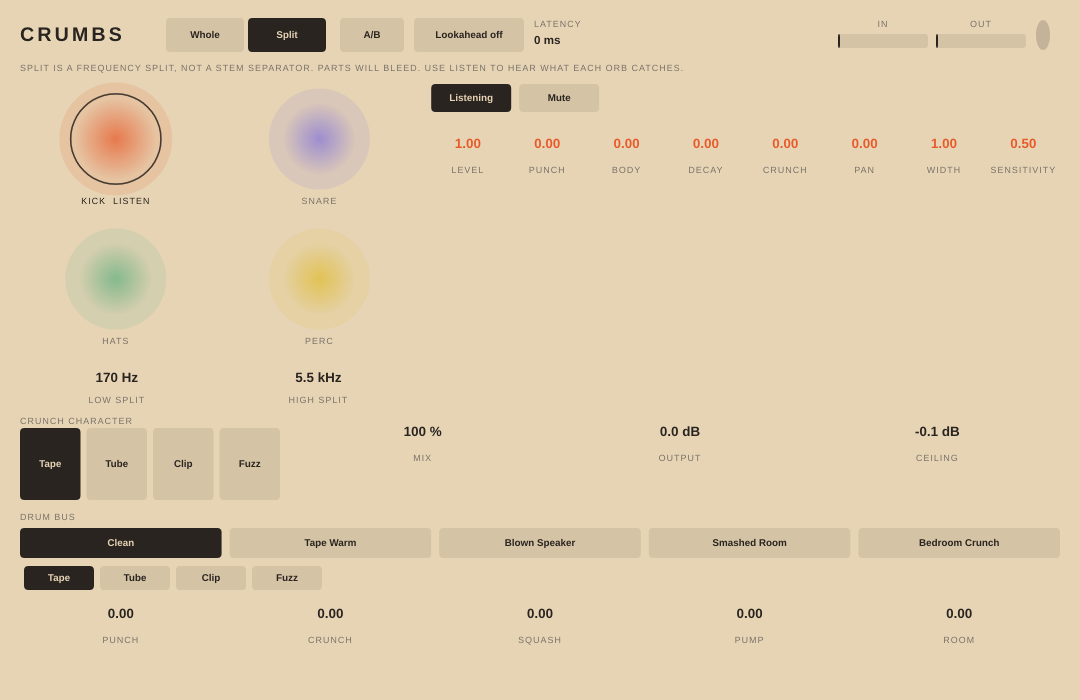
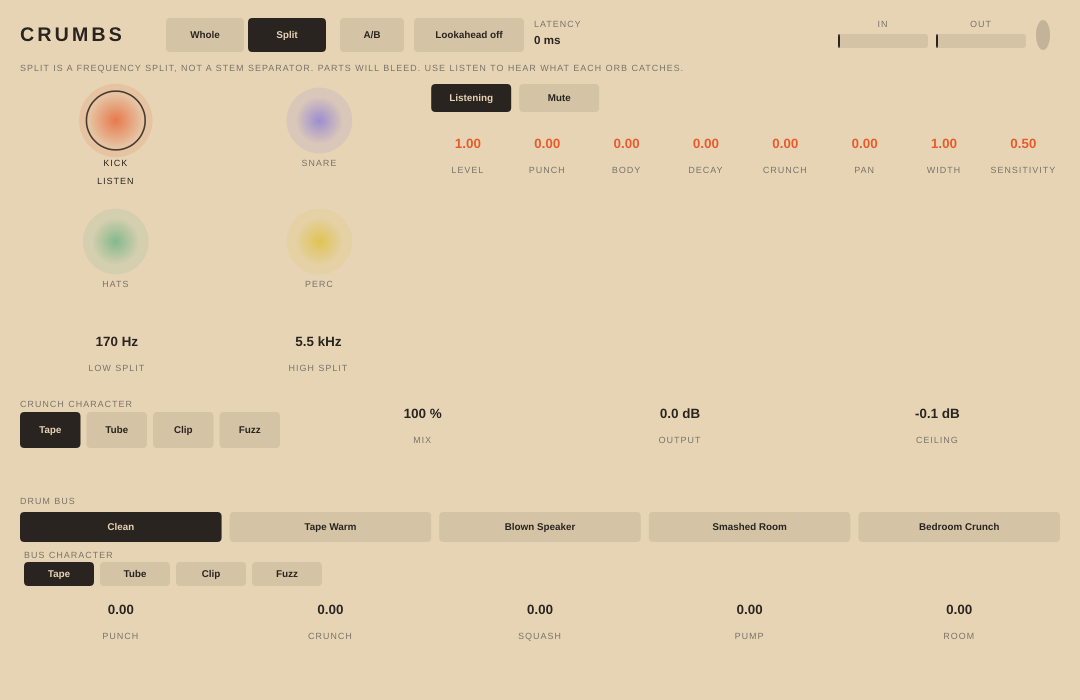
CRUMBS v2.0.1: match bus level, tighten Whole layout
Add a bus-stage RMS auto-gain so every bus preset sits within
about 1 dB of Clean. Pack Whole mode from the top, label the bus
character row, and give Listen and Mute their own line under each orb.

diff --git a/src/plugin/PluginEditor.cpp b/src/plugin/PluginEditor.cpp
@@ -81,11 +81,27 @@ void CrumbsEditor::layout() {
     b.removeFromTop(8);
     hintRow = b.removeFromTop(16);
     b.removeFromTop(8);
-    busRow = b.removeFromBottom(172);
-    b.removeFromBottom(10);
-    mixRow = b.removeFromBottom(86);
-    b.removeFromBottom(10);
-    workArea = b;
+    const bool splitMode = proc.value(G_MODE) >= 0.5f;
+    const float busH = 188.f;
+    const float mixH = 86.f;
+    if (splitMode) {
+        // Orbs use the leftover height; mix + bus stay on the bottom.
+        busRow = b.removeFromBottom(busH);
+        b.removeFromBottom(12);
+        mixRow = b.removeFromBottom(mixH);
+        b.removeFromBottom(16);
+        workArea = b;
+    } else {
+        // Pack Whole from the top so leftover space sits under the bus,
+        // not as an empty band between the knobs and the crunch row.
+        workArea = juce::Rectangle<float>(b.getX(), b.getY(), b.getWidth(), 30.f + 18.f + 88.f);
+        auto after = b;
+        after.removeFromTop(workArea.getHeight());
+        after.removeFromTop(24);
+        mixRow = after.removeFromTop(mixH);
+        after.removeFromTop(16);
+        busRow = after.removeFromTop(busH);
+    }
 
     auto t = topBar;
     auto title = t.removeFromLeft(130);
@@ -115,8 +131,8 @@ void CrumbsEditor::layout() {
         orbArea = w.removeFromLeft(juce::jmax(280.f, w.getWidth() * 0.38f));
         w.removeFromLeft(16);
         auto o = orbArea;
-        splitRow = o.removeFromBottom(44);
-        o.removeFromBottom(8);
+        splitRow = o.removeFromBottom(56);
+        o.removeFromBottom(10);
         float gap = 12.f;
         float ow = (o.getWidth() - gap) * 0.5f;
         float oh = (o.getHeight() - gap) * 0.5f;
@@ -184,12 +200,13 @@ void CrumbsEditor::layout() {
     auto ctypes = m.removeFromLeft(260);
     {
         juce::Rectangle<float> ct = ctypes;
-        ct.removeFromTop(14);
+        ct.removeFromTop(16); // "Crunch character" caption
+        auto row = ct.removeFromTop(36);
         float gw = 6.f;
-        float cw = (ct.getWidth() - gw * 3) / 4;
+        float cw = (row.getWidth() - gw * 3) / 4;
         for (int i = 0; i < 4; ++i) {
-            crunchTypes.push_back(ct.removeFromLeft(cw));
-            if (i < 3) ct.removeFromLeft(gw);
+            crunchTypes.push_back(row.removeFromLeft(cw));
+            if (i < 3) row.removeFromLeft(gw);
         }
     }
     m.removeFromLeft(20);
@@ -199,9 +216,9 @@ void CrumbsEditor::layout() {
     outBox = m.removeFromLeft(mw); m.removeFromLeft(gw);
     ceilBox = m;
 
-    // bus row — header sits inside the row so it cannot overlap crunch chips
+    // bus row — captions sit inside the row so they cannot overlap chips
     auto br = busRow;
-    br.removeFromTop(16); // room for the "Drum bus" caption drawn in paint
+    br.removeFromTop(16); // "Drum bus"
     br.removeFromTop(2);
     auto chips = br.removeFromTop(30);
     busChips.clear();
@@ -212,7 +229,8 @@ void CrumbsEditor::layout() {
         busChips.push_back(chips.removeFromLeft(cw));
         if (i + 1 < nb) chips.removeFromLeft(cg);
     }
-    br.removeFromTop(8);
+    br.removeFromTop(6);
+    br.removeFromTop(14); // "Bus character" caption drawn in paint
     auto types = br.removeFromTop(24);
     busCrunchTypes.clear();
     types.removeFromLeft(4);
@@ -285,12 +303,16 @@ void CrumbsEditor::paint(juce::Graphics& g) {
             bool mutedP = proc.value(pp(i, P_MUTE)) >= 0.5f;
             bool lis = proc.value(pp(i, P_LISTEN)) >= 0.5f;
             auto cell = orbs[(size_t)i];
-            auto lab = cell.removeFromBottom(18);
+            auto lab = cell.removeFromBottom(36);
             drawOrb(g, cell, partCol(i), mutedP ? 0.22f : (on ? 0.70f : 0.48f), on);
-            juce::String tag = names[i];
-            if (lis) tag += "  listen";
-            if (mutedP) tag += "  mute";
-            tiny(g, lab, tag, on ? ink() : muted());
+            auto nameR = lab.removeFromTop(16);
+            tiny(g, nameR, names[i], on ? ink() : muted());
+            if (lis || mutedP) {
+                juce::String flag;
+                if (lis) flag = "Listen";
+                if (mutedP) flag = flag.isEmpty() ? "Mute" : flag + "  +  mute";
+                tiny(g, lab, flag, on ? ink() : muted());
+            }
         }
         knob(g, lowSplitBox, "Low split", fmtHz(proc.value(S_LOW)), ink());
         knob(g, highSplitBox, "High split", fmtHz(proc.value(S_HIGH)), ink());
@@ -320,7 +342,7 @@ void CrumbsEditor::paint(juce::Graphics& g) {
     }
 
     tiny(g, juce::Rectangle<float>(crunchTypes.empty() ? 0 : crunchTypes[0].getX(),
-                                   mixRow.getY(), 200, 14), "Crunch character", muted(), juce::Justification::centredLeft);
+                                   mixRow.getY(), 200, 16), "Crunch character", muted(), juce::Justification::centredLeft);
     const char* cts[] = {"Tape","Tube","Clip","Fuzz"};
     int ct = (int)std::lround(proc.value(W_CRTYPE));
     for (int i = 0; i < (int)crunchTypes.size(); ++i)
@@ -335,6 +357,12 @@ void CrumbsEditor::paint(juce::Graphics& g) {
     int bp = (int)std::lround(proc.value(B_BUS));
     for (int i = 0; i < (int)busChips.size(); ++i)
         chip(g, busChips[(size_t)i], busPresetName(i), i == bp);
+    if (!busCrunchTypes.empty()) {
+        tiny(g, juce::Rectangle<float>(busCrunchTypes[0].getX(),
+                                       busCrunchTypes[0].getY() - 14,
+                                       200, 14),
+             "Bus character", muted(), juce::Justification::centredLeft);
+    }
     int bct = (int)std::lround(proc.value(B_CRTYPE));
     for (int i = 0; i < (int)busCrunchTypes.size(); ++i)
         chip(g, busCrunchTypes[(size_t)i], cts[i], i == bct);

diff --git a/src/engine/Engine.h b/src/engine/Engine.h
@@ -196,6 +196,7 @@ struct Engine {
     CrunchOS wholeCrunch, busCrunch, partCrunch[kParts];
     Room wholeRoom, busRoom;
     Squash squash;
+    RmsAgc busAgc;
     PeakFollower pumpFol;
     OnePole pumpLpL, pumpLpR;
     Ceiling ceil0;
@@ -218,6 +219,7 @@ struct Engine {
         auto prepShapers = [&]() {
             wholePunch.prepare(sr); busPunch.prepare(sr);
             glue.prepare(sr); squash.prepare(sr);
+            busAgc.setMs(40.f, 90.f, sr);
             pumpFol.setMs(1.f, 180.f, sr);
             pumpLpL.setHz(150.f, sr); pumpLpR.setHz(150.f, sr);
             wholeRoom.prepare(sr); busRoom.prepare(sr);
@@ -241,6 +243,7 @@ struct Engine {
 
     void reset() {
         wholePunch.reset(); busPunch.reset(); glue.reset(); squash.reset();
+        busAgc.reset();
         wholeBodyL.reset(); wholeBodyR.reset();
         wholeToneL.reset(); wholeToneR.reset();
         snapL.reset(); snapR.reset();
@@ -428,6 +431,7 @@ struct Engine {
 
     void processBus(float& l, float& r) {
         if (p.busIsClean()) return;
+        float dL = l, dR = r;
         if (p.bPunch > 1e-5f) busPunch.tickStereo(l, r, p.bPunch, 0);
         if (p.bCrunch > 1e-5f) {
             float ol, or_;
@@ -442,6 +446,9 @@ struct Engine {
             l *= g; r *= g;
         }
         if (p.bRoom > 1e-5f) { float ol, or_; busRoom.tick(l, r, p.bRoom, ol, or_); l = ol; r = or_; }
+        // Match the whole bus stage to the dry bus input so a preset is a colour, not a level jump.
+        float ag = busAgc.tick(0.5f * (dL + dR), 0.5f * (l + r));
+        l *= ag; r *= ag;
     }
 };
 

diff --git a/tests/plugin_tests.cpp b/tests/plugin_tests.cpp
@@ -259,16 +259,24 @@ int main(int, char**) {
       CHECKM(r.identicalToInput() == (int)r.inL.size(), "return to clean identical %d/%d", r.identicalToInput(), (int)r.inL.size());
     }
 
-    { std::puts("- bus presets differ from Clean and stay under the ceiling");
+    { std::puts("- bus presets differ from Clean, stay under the ceiling, and sit within ±1 dB RMS");
+      auto rmsOf = [](const std::vector<float>& x) {
+          double e = 0; for (float v : x) e += (double)v * v;
+          return x.empty() ? 0.0 : std::sqrt(e / (double)x.size());
+      };
       Rig r; r.fillKit(1.0);
       r.run(r.inL, r.inR);
       auto clean = r.L;
+      double rClean = rmsOf(clean);
       for (int i = 1; i <= 4; ++i) {
           r.p.applyBusPreset(i);
           r.run(r.inL, r.inR);
           CHECK(r.finite() && r.peak() > 0.02f && r.peak() <= dbToGain(-0.1f) + 1e-5f);
           int same = 0; for (size_t k = 0; k < r.L.size(); ++k) if (r.L[k] == clean[k]) ++same;
           CHECKM(same < (int)r.L.size() / 2, "preset %d too close to clean", i);
+          double db = 20 * std::log10(std::max(rmsOf(r.L), 1e-8) / std::max(rClean, 1e-8));
+          CHECKM(std::fabs(db) <= 1.1, "plugin preset %s RMS %+0.2f dB vs clean", busPresetName(i), db);
+          std::printf("    bus %-16s  rms %+0.2f dB vs clean\n", busPresetName(i), db);
       }
       r.p.applyBusPreset(0);
       r.run(r.inL, r.inR);

diff --git a/src/engine/Dsp.h b/src/engine/Dsp.h
@@ -97,6 +97,27 @@ struct Agc {
     void reset() { ein = eout = 0; g = 1; }
 };
 
+// Program-level RMS match: slow enough to leave punch and pump alone,
+// quick enough that a preset's overall loudness sits next to the dry signal.
+struct RmsAgc {
+    float ein = 0, eout = 0, g = 1, coef = 0.01f, smooth = 0.01f;
+    void setMs(float envMs, float smoothMs, double sr) {
+        coef = 1.f - std::exp(-1.f / std::max(1.f, envMs * 0.001f * float(sr)));
+        smooth = 1.f - std::exp(-1.f / std::max(1.f, smoothMs * 0.001f * float(sr)));
+    }
+    float tick(float dry, float wet) {
+        ein  = flush(ein  + coef * (dry * dry - ein));
+        eout = flush(eout + coef * (wet * wet - eout));
+        float t = (eout > 1e-12f) ? std::sqrt(ein / eout) : 1.f;
+        t = clampf(t, 0.25f, 4.f);
+        float a = smooth;
+        if (std::fabs(t - g) > 0.25f) a = std::min(1.f, smooth * 6.f);
+        g = flush(g + a * (t - g));
+        return g;
+    }
+    void reset() { ein = eout = 0; g = 1; }
+};
+
 // RBJ biquad
 struct Biquad {
     float b0 = 1, b1 = 0, b2 = 0, a1 = 0, a2 = 0, z1 = 0, z2 = 0;

diff --git a/tests/test_engine.cpp b/tests/test_engine.cpp
@@ -231,10 +231,10 @@ static void testBusPresetsAndAgc() {
         CHECK(tu::peak(b.L) <= dbToGain(-0.1f) + 1e-5f);
         // clearly different from clean
         CHECK(tu::rmsDiff(b.L, dry) > 1e-4);
-        // not "just several dB louder" — compensated
+        // A preset is a colour, not a level jump: within about ±1 dB RMS of Clean.
         double r = tu::rms(b.L);
         double db = 20 * std::log10(std::max(r, 1e-8) / std::max(rClean, 1e-8));
-        CHECKM(db < 6.0, "preset %s RMS jump %+0.2f dB", busPresetName(i), db);
+        CHECKM(std::fabs(db) <= 1.1, "preset %s RMS %+0.2f dB vs clean (want ±1 dB)", busPresetName(i), db);
         std::printf("    bus %-16s  rms %+0.2f dB vs clean\n", busPresetName(i), db);
         // back to clean is exact
         p.applyBusPreset(BUS_CLEAN);

diff --git a/PLAN.md b/PLAN.md
@@ -1,6 +1,6 @@
 # CRUMBS v2 — a drum mixer insert
 
-Status: **v2.0.** Stereo audio effect (not an instrument). macOS universal VST3 + AU. Public repo [koobacorp/crumbs](https://github.com/koobacorp/crumbs).
+Status: **v2.0.1.** Stereo audio effect (not an instrument). macOS universal VST3 + AU. Public repo [koobacorp/crumbs](https://github.com/koobacorp/crumbs).
 
 Put CRUMBS on an FL mixer track. It processes the drums already running through that track in real time. Two modes: **Whole** (default) shapes the kit as one sound; **Split** is a live band split into Kick, Snare, Hats and Perc. The drum bus starts on **Clean** (a bit-exact bypass). No loop loading, no rearrange, no rebuild, no MIDI, no ML, no paid compute.
 

diff --git a/README.md b/README.md
@@ -9,7 +9,7 @@ Two modes, always your choice:
 
 The drum bus starts on **Clean**, which is a true bypass. Tape Warm, Blown Speaker, Smashed Room and Bedroom Crunch are punchy, saturated indie-drum colours. A/B compares the processed sound to the dry input.
 
-v2.0 is a macOS universal VST3 and AU. Nothing here is proven on real drums in FL until you try it, and it is not installed on your Mac until you ask.
+v2.0.1 is a macOS universal VST3 and AU. Nothing here is proven on real drums in FL until you try it, and it is not installed on your Mac until you ask.
 
 ## Latency and loudness
 
